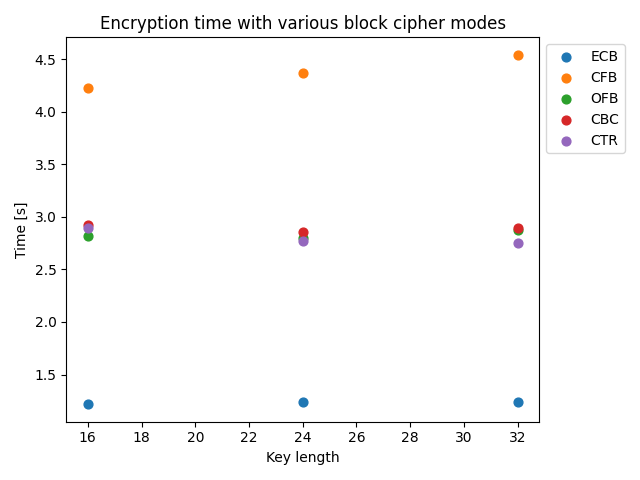
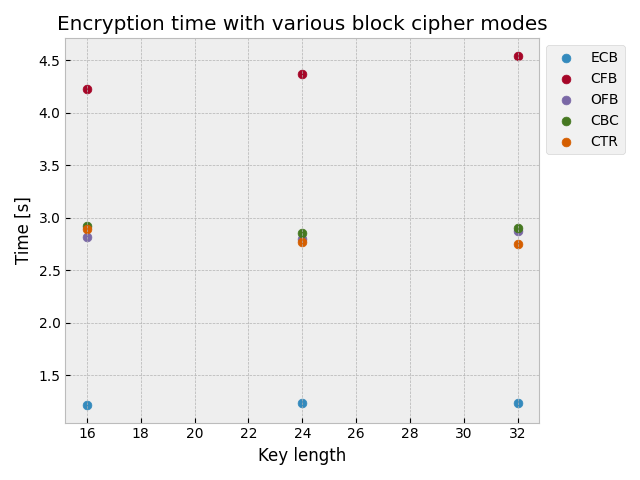
changed plot styles for better visualisation

diff --git a/Source/csvFileManager.py b/Source/csvFileManager.py
@@ -38,6 +38,7 @@ def calcTimeForCipherMode(func, modeName):
 
 def generatePlot(FeatureName, df):
     plt.clf()  # Clear figure --> prepare plt for new plot
+    plt.style.use('bmh')
     numberOfCipherModes = 5
     numberOfKeyLengths = 3
     for i in range(numberOfCipherModes):
@@ -72,6 +73,7 @@ def generateEncDecPlots(csvFileName, csvColumnNames):
 
 def calcRatios(df):
     plt.clf()  # Clear figure --> prepare plt for new plot
+    plt.style.use('bmh')
     numberOfCipherModes = 5
     numberOfKeyLengths = 3
     for i in range(numberOfCipherModes):
